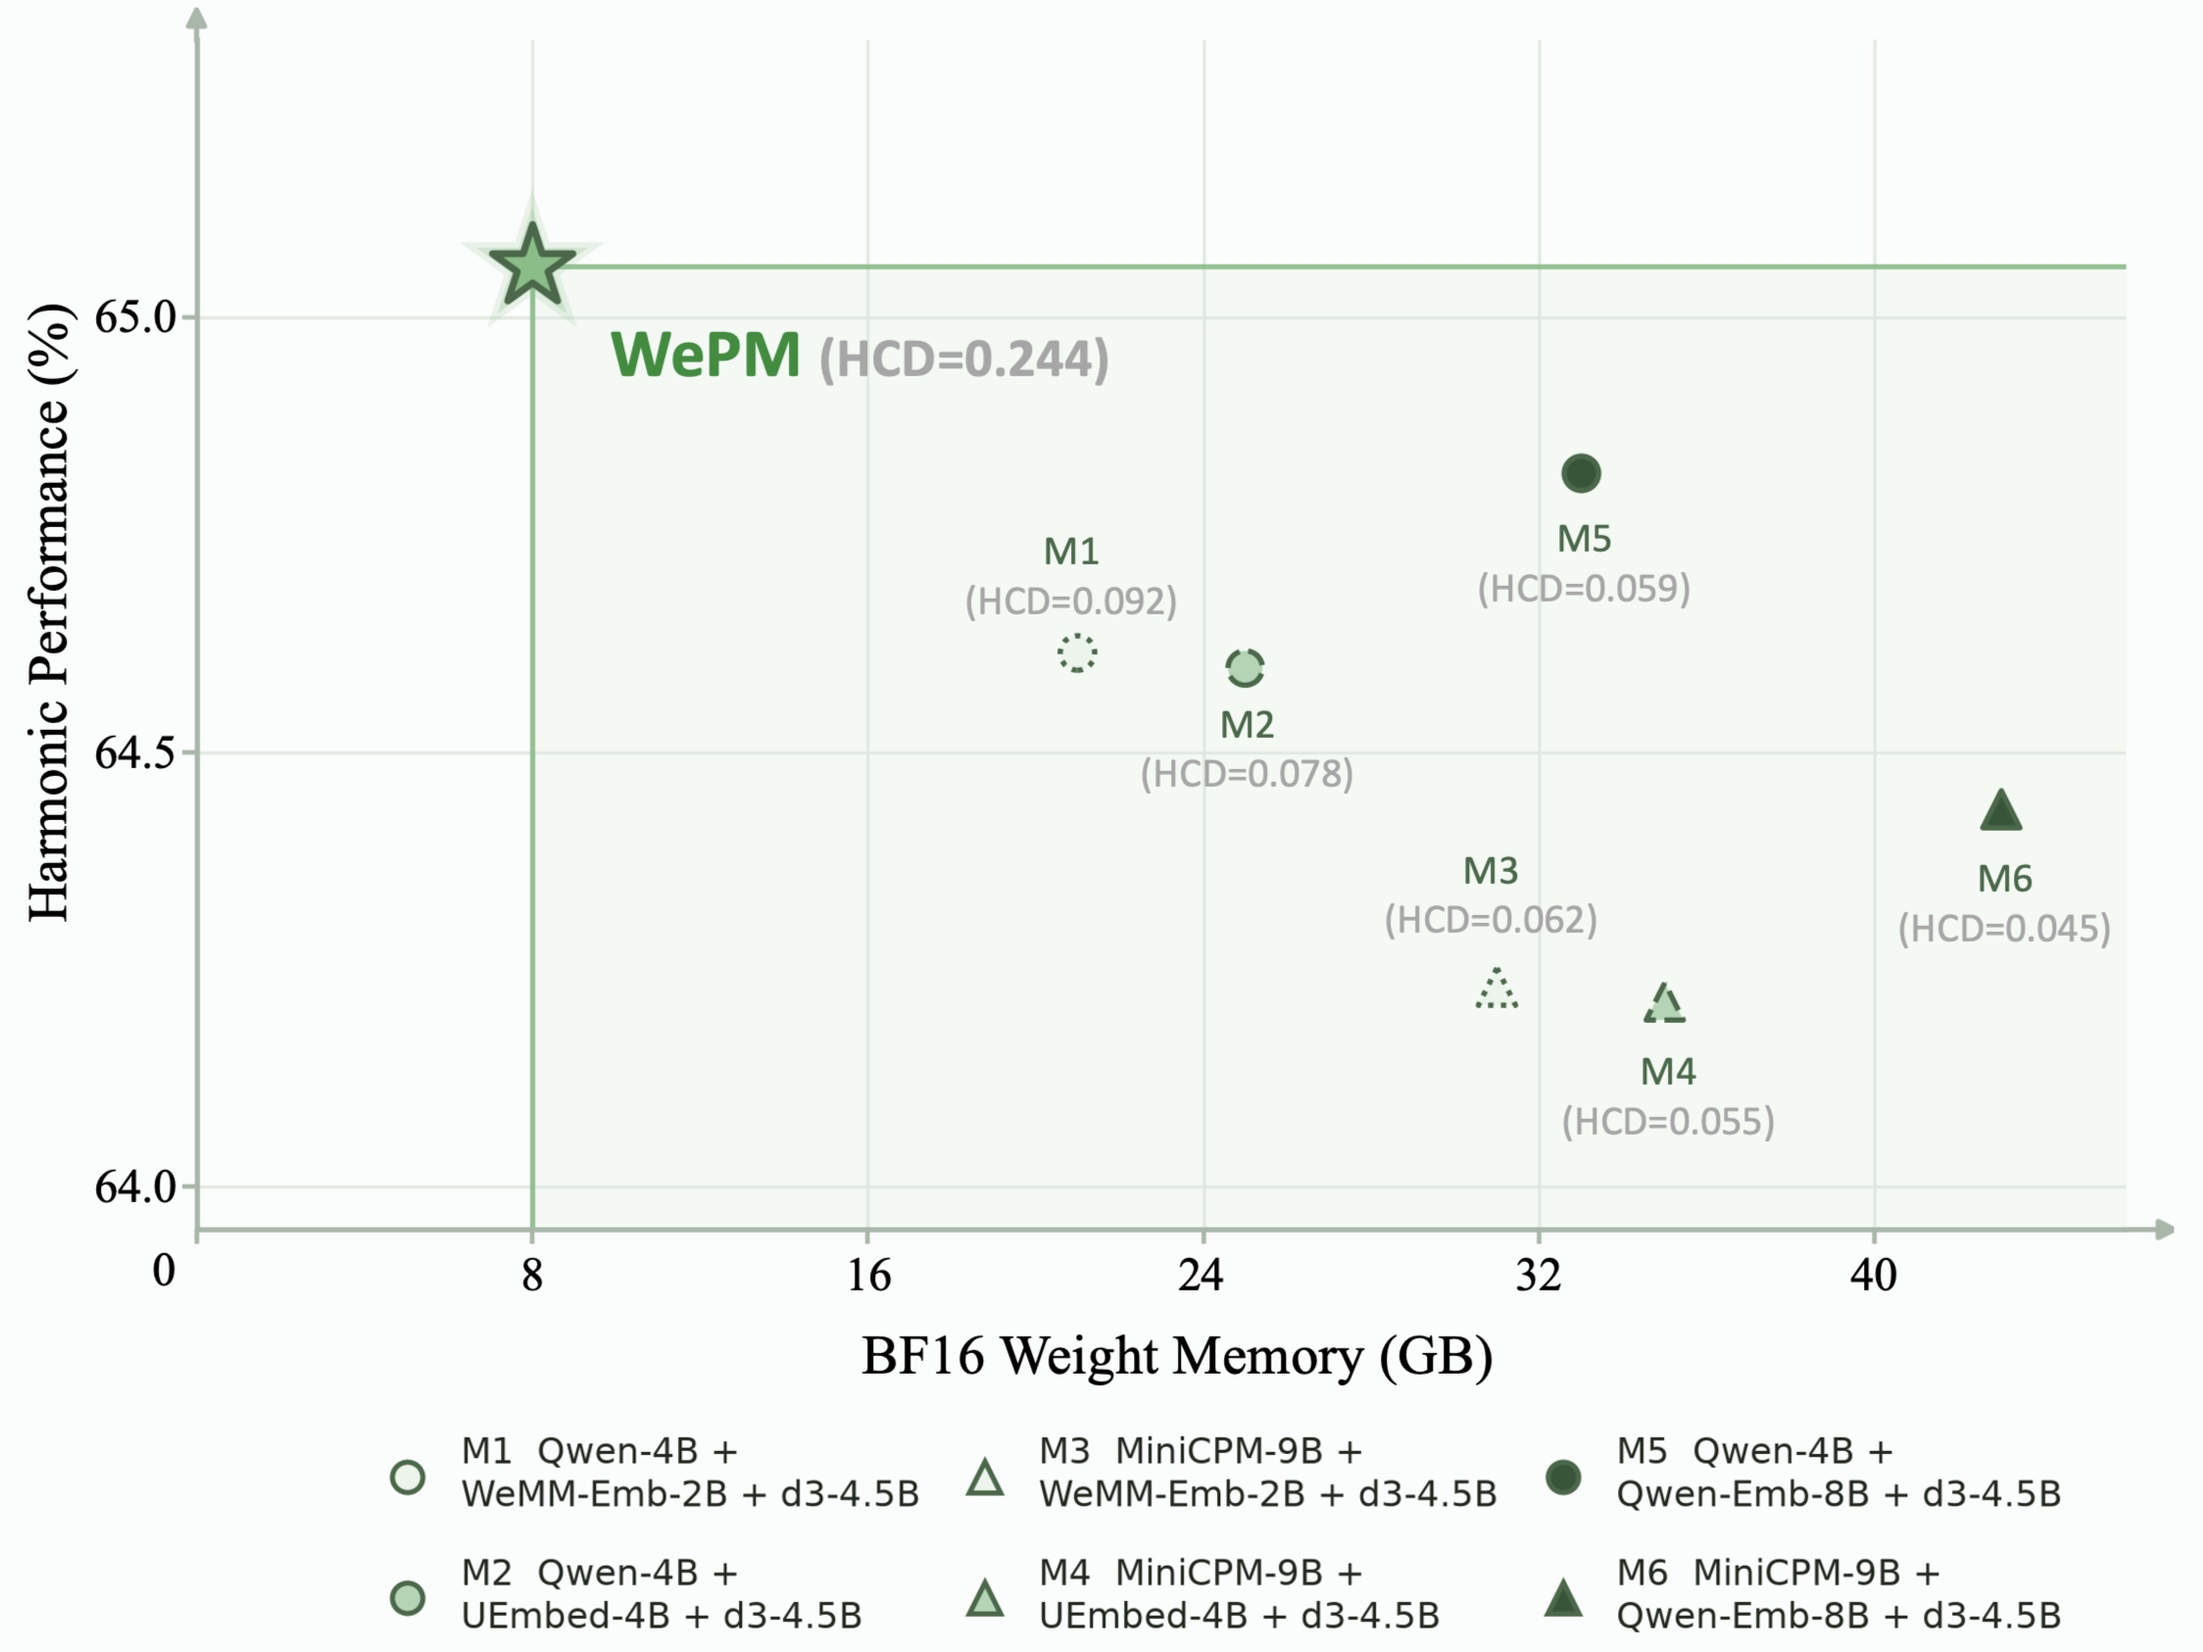
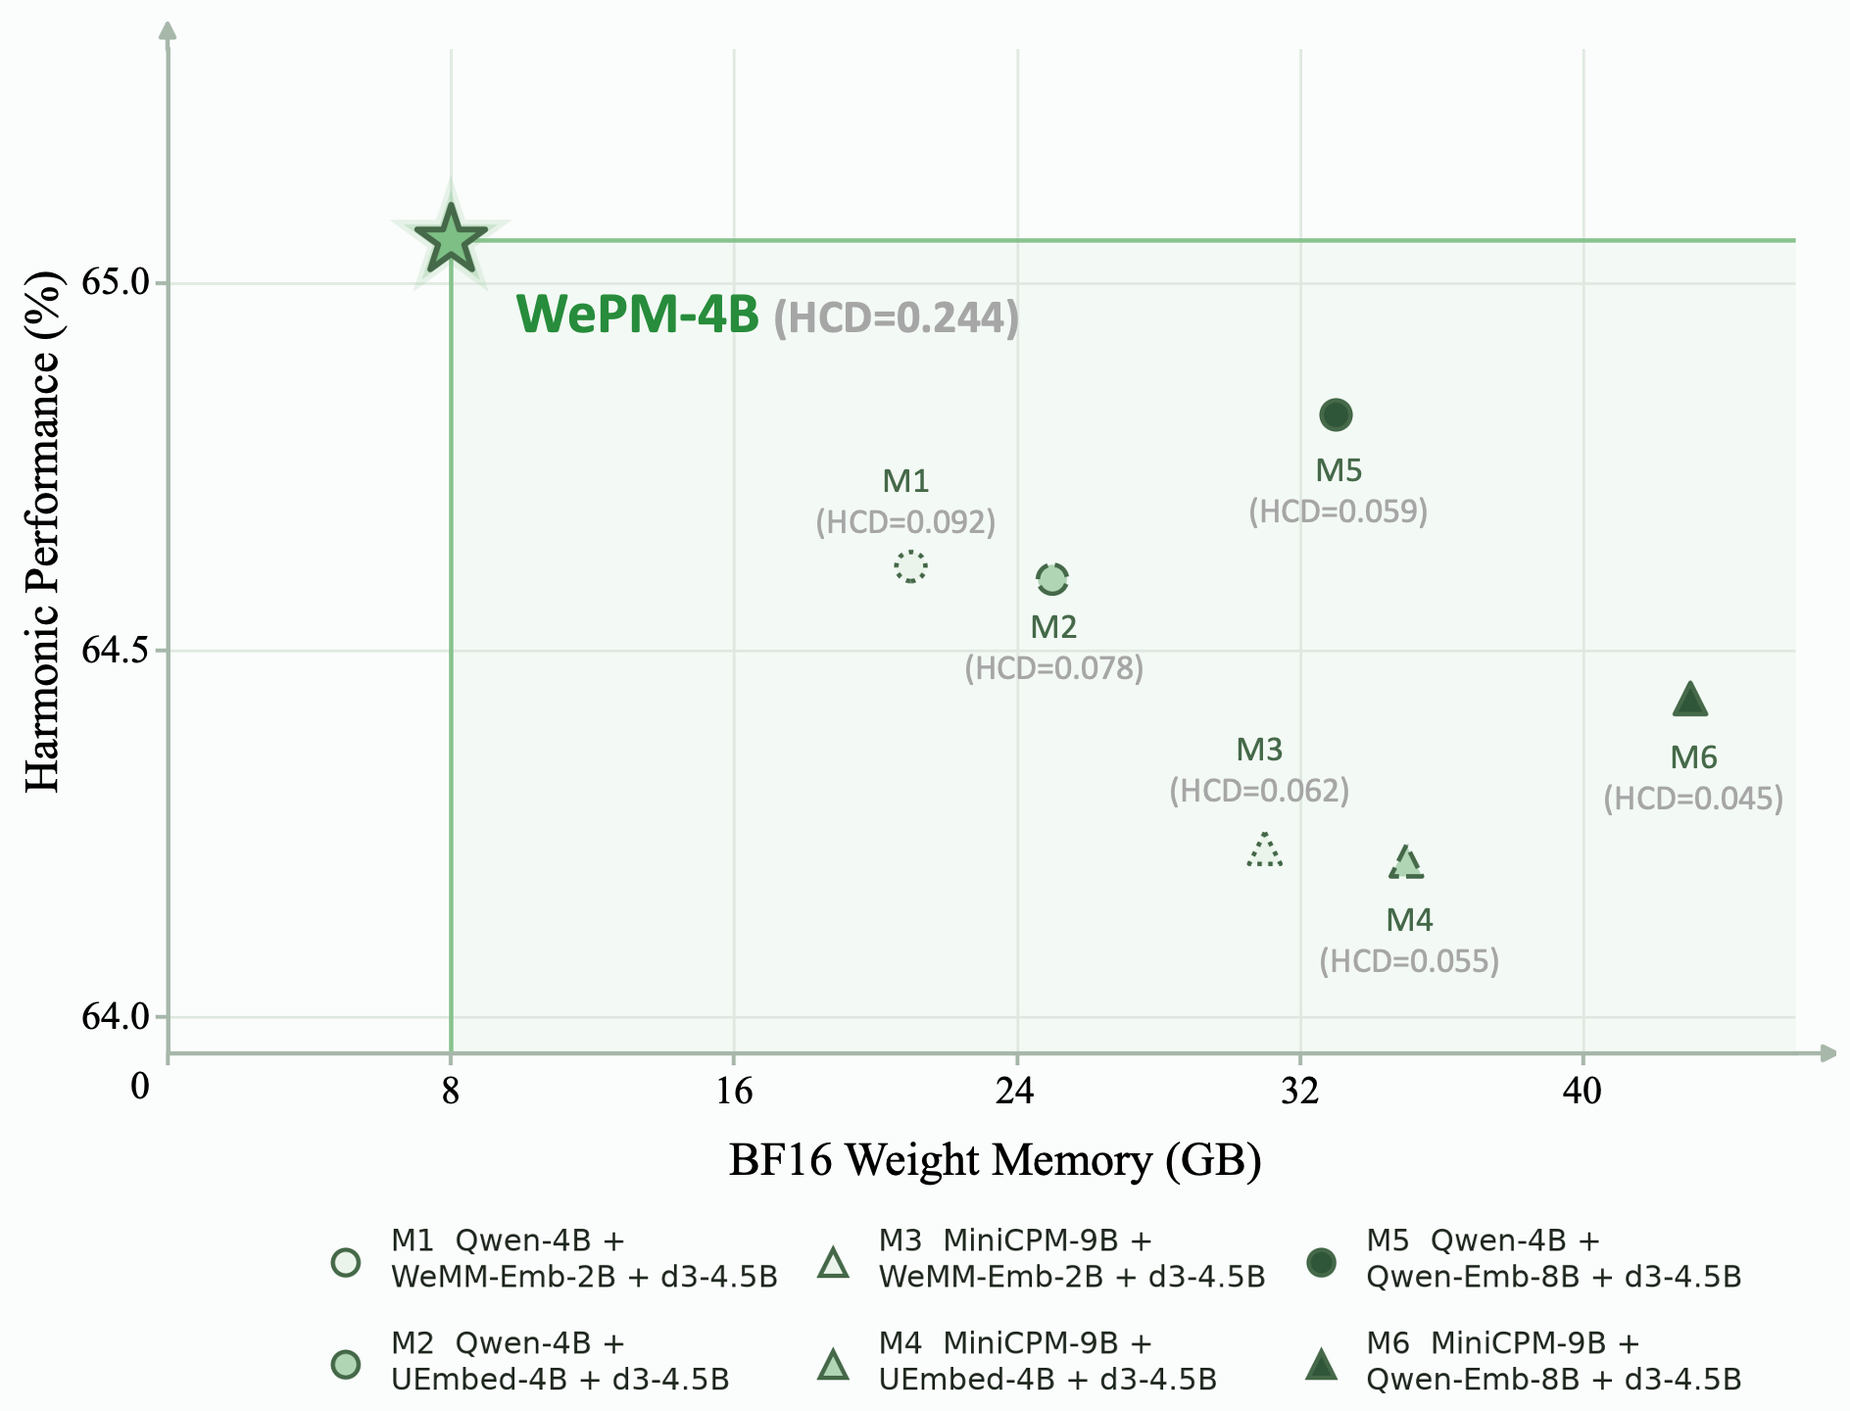
Update README benchmark and HCD figures

diff --git a/README.md b/README.md
@@ -41,13 +41,13 @@ Together, these designs align visual evidence, learning signals and optimization
 
 ## Performance Across Three Capability Families
 
-WePM is evaluated across all three capability families rather than through a single aggregate score: **Embedding** covers 30 benchmarks and 9 models, **Generation** covers 39 benchmarks and 9 models, and **Decision (JEV)** covers 7 benchmarks and 21 models. The figure summarizes the benchmark-level comparisons and reports WePM's overall rank within each evaluation pool.
+The evaluation includes both WePM-4B and WePM-2B across three capability families. **Embedding** covers 30 benchmarks and 10 models, **Generation** covers 39 benchmarks and 10 models, and **Decision (JEV)** covers 7 benchmarks and 22 models.
 
 <p align="center">
-  <img src="assert/performance.png" width="1080" alt="Benchmark-level comparisons and overall WePM ranking across 30 Embedding, 39 Generation and 7 Decision (JEV) benchmarks">
+  <img src="assert/performance.png" width="1080" alt="WePM-4B and WePM-2B benchmark comparisons across 30 Embedding, 39 Generation and 7 Decision (JEV) benchmarks, with WePM-4B ranked first overall in each category">
 </p>
 
-WePM ranks first overall in each of the three evaluation pools. These results show that one shared 4B backbone can support competitive embedding, generation and decision capabilities together. The ranking is an overall result within each capability family, not a claim that WePM leads every individual benchmark.
+WePM-4B ranks first overall in each capability family based on aggregate scores across its benchmarks. These results show that one shared 4B backbone can support competitive embedding, generation and decision capabilities together.
 
 ## Heterogeneous Capability Density (HCD)
 
@@ -60,10 +60,10 @@ Benchmark quality alone does not capture the central constraint of on-device dep
 HCD counts capability families rather than individual benchmarks. For example, OCR, captioning and visual question answering all contribute to Generation instead of being counted as three separate capabilities. A higher HCD therefore indicates that a model delivers broader and stronger usable intelligence per unit of resident memory—not merely that it has been evaluated on more tasks.
 
 <p align="center">
-  <img src="assert/memory_vs_quality.png" width="640" alt="Harmonic performance versus BF16 weight memory for WePM (HCD=0.244) and six independent three-model compositions">
+  <img src="assert/memory_vs_quality.png" width="640" alt="Harmonic performance versus BF16 weight memory for WePM-4B (HCD=0.244) and six independent three-model compositions">
 </p>
 
-The comparison pairs independent generation and embedding models with the same d3-4.5B decision model. WePM reaches approximately 65.1% harmonic performance with about 8 GB of BF16 weight memory, yielding an HCD of 0.244. The six independent three-model compositions require roughly 21–43 GB, with harmonic performance of approximately 64.2–64.8% and HCD values of 0.045–0.092. In this comparison, WePM achieves higher harmonic performance with substantially less weight memory, delivering approximately 2.7–5.4× the HCD of the independent compositions.
+The comparison pairs independent generation and embedding models with the same d3-4.5B decision model. WePM-4B reaches approximately 65.1% harmonic performance with about 8 GB of BF16 weight memory, yielding an HCD of 0.244. The six independent three-model compositions require roughly 21–43 GB, with harmonic performance of approximately 64.2–64.8% and HCD values of 0.045–0.092. In this comparison, WePM-4B achieves higher harmonic performance with substantially less weight memory, delivering approximately 2.7–5.4× the HCD of the independent compositions.
 
 The memory values and HCD comparison above use BF16 weights only, not full runtime memory. KV cache, activations, framework overhead and runtime fragmentation are excluded.
 
@@ -111,7 +111,7 @@ examples/cpu/           # CPU task cases and input assets
 checkpoints/            # Optional local downloads; model files are not tracked
 ```
 
-The runnable examples use the complete Hugging Face export and support generation, embedding extraction, and structured decision. Generation cases cover single-text, single-image, and ordered text–image interleaving. The current results and hardware measurements in this README are for the 4B model, not the 2B release. The shared loader requires the same task_slots_v1 export contract; 2B inference will be validated after its checkpoint is available.
+The runnable examples use the complete Hugging Face export and support generation, embedding extraction, and structured decision. Generation cases cover single-text, single-image, and ordered text–image interleaving. The hardware figures below apply to WePM-4B. The shared loader requires the same `task_slots_v1` export contract, and 2B inference will be validated after its checkpoint is available.
 
 ### Hardware and precision (4B)
 
@@ -126,7 +126,7 @@ Clone the inference code and examples:
 
 ```bash
 git clone https://github.com/Tencent/WePocketModel
-cd WePM
+cd WePocketModel
 ```
 
 The current branch does not bundle model weights or require Git LFS. Inference resolves the complete 2B or 4B export from Hugging Face or an explicitly selected local directory.
